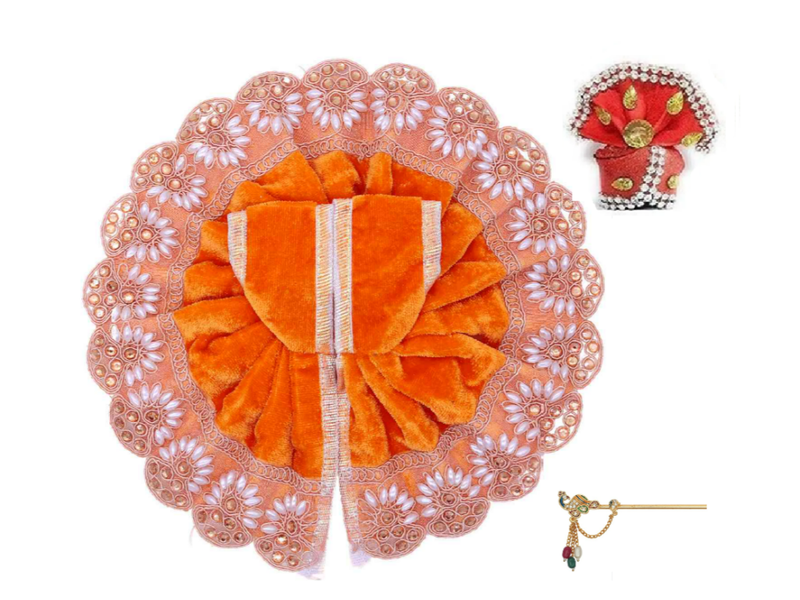
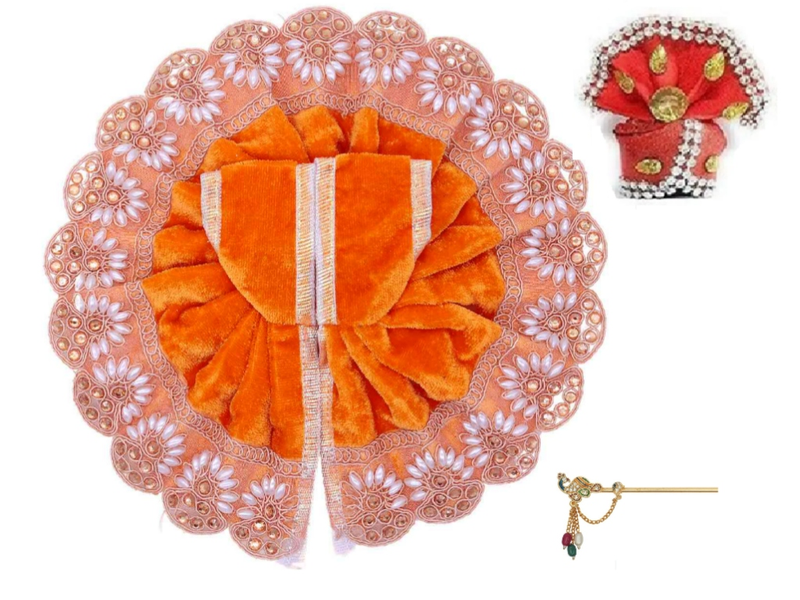
misc images

diff --git a/index.html b/index.html
@@ -320,8 +320,10 @@
                     <div class="gallery-slider-container">
                         <div class="product-image-slider">
                             <div class="product-slider-wrapper">
-                                <img src="images/misc_1.png" alt="Miscellaneous Collection 1" class="product-slide">
-                                <img src="images/misc_2.png" alt="Miscellaneous Collection 2" class="product-slide">
+                                <img src="images/misc_2.png" alt="Miscellaneous Collection 1" class="product-slide">
+                                <img src="images/misc_1.png" alt="Miscellaneous Collection 2" class="product-slide">
+                                <img src="images/misc_3.png" alt="Miscellaneous Collection 3" class="product-slide">
+                                <img src="images/misc_4.png" alt="Miscellaneous Collection 4" class="product-slide">
                             </div>
                         </div>
                     </div>